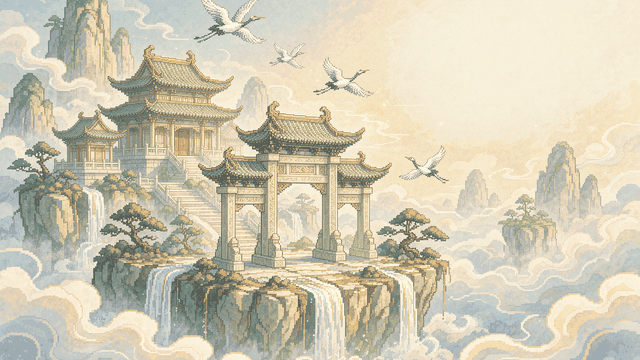
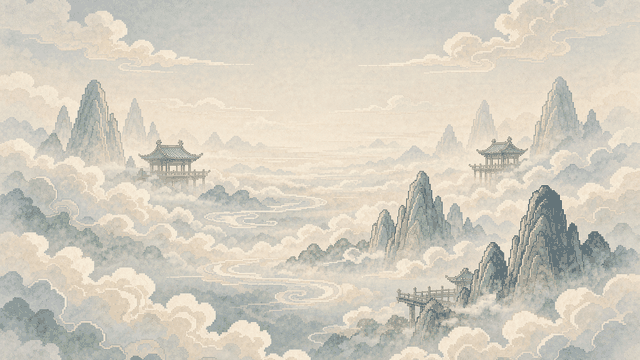
art: 删鸟去鹤+大黑山重画——v3背景3张替换
- bg_mijing_xian：去除近景突兀仙鹤，改云上仙阙残迹+仙碑剑痕+大片云海留白
- bg_mijing_xuan：大黑山完全重画——阴森密林山谷、非对称构图（巨石一侧/黑松林一侧）、狼群潜行、树枝垂蛇尾、乌鸦栖枝、散落兽骨、深冷压迫色调
- bg_title_yunhai：去除4只近景仙鹤，改远处云海仙宫，留白空旷

新增原则（写入计划）：
- 修仙类（洞府/修炼/百艺/锻体/渡劫/标题）突出空明意蕴放松
- 秘境类适当压迫感（玄/天偏深冷）
- 鸟/鹤专项约束：禁止近景，只许远山细影；仙秘境可远山鹤影

SW 缓存 v59→v60；48/48 测试通过；发布包 4.9MB

diff --git a/sw.js b/sw.js
@@ -1,4 +1,4 @@
-const CACHE = 'dedao-v59';
+const CACHE = 'dedao-v60';
 const ASSETS = [
   './',
   './index.html',

diff --git a/test/reports/test-report-2026-09-06-08-54.md b/test/reports/test-report-2026-09-06-08-54.md
@@ -1,0 +1,67 @@
+# DEDAO 全量测试报告
+
+- 目标目录：`D:\opencode\DEDAO`
+- 运行时间：2026/9/6 16:54:47
+- 结果：**48/48 通过**
+
+## 汇总
+
+| 测试套件 | 用例数 | 通过 | 失败 |
+|---|---:|---:|---:|
+| 01 静态一致性 & 数据完整性 | 16 | 16 | 0 |
+| 02 引擎单元测试 & 长时模拟 | 22 | 22 | 0 |
+| 03 UI / DOM 层（jsdom） | 10 | 10 | 0 |
+| **合计** | **48** | **48** | **0** |
+
+## 明细
+
+| 结果 | 套件 | 用例 | 说明 |
+|:--:|---|---|---|
+| ✅ | 01 静态一致性 & 数据完整性 | 全部 JS 源文件语法可解析 |  |
+| ✅ | 01 静态一致性 & 数据完整性 | 源文件无编码损坏（U+FFFD 替换字符） |  |
+| ✅ | 01 静态一致性 & 数据完整性 | ui.js 引用的元素 ID 均存在于 index.html（非守护式引用） | ℹ 检查了 126 个 ID 引用 / HTML 定义 151 个 |
+| ✅ | 01 静态一致性 & 数据完整性 | index.html 定义的元素 ID 均被使用（无死元素） | ℹ 未被引用的 ID 24 个: screen-title, screen-enter, enter-rebirth-section, screen-char, char-body, tab-attr, tab-equip, tab-treasure, tab-tech, screen-rebirth, screen-bag, screen-gear |
+| ✅ | 01 静态一致性 & 数据完整性 | HTML 中引用的资源文件均存在 | ℹ 校验 6 个资源引用 |
+| ✅ | 01 静态一致性 & 数据完整性 | 未使用 alert / confirm / prompt（小游戏宿主会阻塞，移植风险） |  |
+| ✅ | 01 静态一致性 & 数据完整性 | 未硬编码 Windows 绝对路径 |  |
+| ✅ | 01 静态一致性 & 数据完整性 | Service Worker 缓存版本已声明 | ℹ 当前缓存版本: dedao-v60 |
+| ✅ | 01 静态一致性 & 数据完整性 | 境界体系 STAGES 完整且修为需求递增 | ℹ 需求曲线: 500 → 800 → 1200 → 1200 → 1600 → 2100 → 3800 → 4800 → 6200 → 12000 → 15000 → 19000 |
+| ✅ | 01 静态一致性 & 数据完整性 | 功法 TECHNIQUES 字段合法 | ℹ 功法 81 个，心法 37 / 术法 29 / 遁术 15 |
+| ✅ | 01 静态一致性 & 数据完整性 | 天赋 TALENTS 唯一且有 tier | ℹ 天赋 28 个，档位分布: {"white":6,"green":6,"blue":6,"purple":5,"gold":5} |
+| ✅ | 01 静态一致性 & 数据完整性 | 炼制配方 FORMULAS 产物与材料引用有效 | ℹ 配方 10 条 |
+| ✅ | 01 静态一致性 & 数据完整性 | 事件库 EVENTS 结构合法 | ℹ 事件分类: jiyuan=34 / shejiao=35 / mijing=19 / year=4，合计 92 |
+| ✅ | 01 静态一致性 & 数据完整性 | 宗门数据 SECTS 与各事件表键一致 | ℹ 宗门 3 个: 青云剑宗、丹霞谷、玄天门 |
+| ✅ | 01 静态一致性 & 数据完整性 | 灵根/彩蛋/背景池数据合法 | ℹ 灵根 11 / 彩蛋 7 / 背景 3 |
+| ✅ | 01 静态一致性 & 数据完整性 | 装备 ARTIFACTS 槽位与品阶合法 | ℹ 装备 5 件，类型: 攻 / 守 / 辅<br>ℹ ⚠ 法宝仅 5 件，品类偏少，长期内容深度可能不足 |
+| ✅ | 02 引擎单元测试 & 长时模拟 | Engine 与核心接口可用 | ℹ Engine 暴露 105 个成员 |
+| ✅ | 02 引擎单元测试 & 长时模拟 | startLife 产出合法初始状态 |  |
+| ✅ | 02 引擎单元测试 & 长时模拟 | commitStart 完成开局且属性自洽 |  |
+| ✅ | 02 引擎单元测试 & 长时模拟 | actionPoints 随境界递增（3→6） | ℹ idx 0/3/6/9 → 3 / 4 / 5 / 6 点 |
+| ✅ | 02 引擎单元测试 & 长时模拟 | cultivate 增加修为并消耗行动点 |  |
+| ✅ | 02 引擎单元测试 & 长时模拟 | 修为未满时不可突破 | ℹ breakInfo: {} |
+| ✅ | 02 引擎单元测试 & 长时模拟 | 修为拉满后可突破且境界提升 | ℹ 成功推进至 idx=1（炼气），尝试 2 次 |
+| ✅ | 02 引擎单元测试 & 长时模拟 | 战斗可正常终止且数值不越界 | ℹ 战斗 73 回合结束，win=false lost=true |
+| ✅ | 02 引擎单元测试 & 长时模拟 | 装备获取 / 穿戴 / 属性计算 | ℹ 装备 越王勾践剑，攻击 30 → 60 |
+| ✅ | 02 引擎单元测试 & 长时模拟 | 存档写入 / 读取往返一致 |  |
+| ✅ | 02 引擎单元测试 & 长时模拟 | 空存档读取返回 null 而不崩溃 |  |
+| ✅ | 02 引擎单元测试 & 长时模拟 | 丹药使用扣除数量且生效 | ℹ 服用 聚气丹，寿元 70 → 70 |
+| ✅ | 02 引擎单元测试 & 长时模拟 | endYear 推进年份与年龄 |  |
+| ✅ | 02 引擎单元测试 & 长时模拟 | 100 局全流程随机模拟：无崩溃、无 NaN、不变量恒成立 | ℹ 共模拟 100 局 / 17580 年，死亡 32 局，最高年龄 216<br>ℹ 终局境界分布 idx0..11: 0,0,0,0,0,18,0,2,29,33,13,3,0,0,0,2 |
+| ✅ | 02 引擎单元测试 & 长时模拟 | 数值平衡抽样：境界推进与寿命分布合理 | ℹ 60 局：平均寿命 146.6 岁，平均境界序号 7.98，最高 15，最低 5 |
+| ✅ | 02 引擎单元测试 & 长时模拟 | doDuanti：未解锁拒绝，解锁后生效（+0.5 体魄） |  |
+| ✅ | 02 引擎单元测试 & 长时模拟 | doDuanti：行动点消耗（体魄1/遁速1/神识2） |  |
+| ✅ | 02 引擎单元测试 & 长时模拟 | doDuanti：每大境界每种至多10次，行动点不足拒绝 |  |
+| ✅ | 02 引擎单元测试 & 长时模拟 | doDuanti：突破大境界后次数重置 |  |
+| ✅ | 02 引擎单元测试 & 长时模拟 | 秘境灵材按秘境品级掉落（高境界刷黄级秘境得黄级灵草） |  |
+| ✅ | 02 引擎单元测试 & 长时模拟 | 坊市灵材按秘境品级出售且可正常购买 |  |
+| ✅ | 02 引擎单元测试 & 长时模拟 | 出售装备：同名只卖一件，已穿戴的不受影响 |  |
+| ✅ | 03 UI / DOM 层（jsdom） | 页面可加载且核心脚本无报错 | ℹ 加载期消息 0 条（已过滤无关项后 0 条） |
+| ✅ | 03 UI / DOM 层（jsdom） | 标题页可见且主按钮齐备 |  |
+| ✅ | 03 UI / DOM 层（jsdom） | 走通开局流程：开始轮回 → 起名 → 进入主界面 | ℹ 命格候选项 3 个<br>ℹ undefined<br>ℹ 角色名: 测试道人，HUD 气血: ? |
+| ✅ | 03 UI / DOM 层（jsdom） | 主界面行动按钮可点击且不抛错 | ℹ 已点击 7 个行动按钮 |
+| ✅ | 03 UI / DOM 层（jsdom） | 底部栏与功能弹窗可正常开关 | ℹ 已遍历 4 个底部入口 |
+| ✅ | 03 UI / DOM 层（jsdom） | 轮回塔页面可进入并渲染天赋列表 | ℹ 轮回塔条目数: 18 |
+| ✅ | 03 UI / DOM 层（jsdom） | 游戏状态可持久化到 localStorage | ℹ 存档键: dedao_meta, dedao_cfg, dedao_save |
+| ✅ | 03 UI / DOM 层（jsdom） | 自定义弹窗替代原生 confirm（WebView 不阻塞） |  |
+| ✅ | 03 UI / DOM 层（jsdom） | 锻体：未解锁时仅给引导，不进页面不耗行动点 |  |
+| ✅ | 03 UI / DOM 层（jsdom） | 锻体：解锁后进入页面，淬炼生效且计入次数 |  |

diff --git a/AI配图实施计划.md b/AI配图实施计划.md
@@ -23,16 +23,30 @@
 | 层级 | 名称 | 游戏文案 | 画面要素 | 文件命名 |
 |:---:|---|---|---|---|
 | 黄 | 匪徒营寨 | 炼气期秘境，匪徒盘踞之地 | 山腰木栅寨、帐篷两三顶、篝火锅灶、木箱兵器架、土路上行、远处青岭薄雾 | `bg_mijing_huang` |
-| 玄 | 大黑山 | 筑基期秘境，妖兽横行之地 | 黑松林、巨岩、兽骨与爪痕、林间雾气、远山月色（明亮不阴森） | `bg_mijing_xuan` |
+| 玄 | 大黑山 | 筑基期秘境，妖兽横行之地 | **阴森密林山谷**：非对称构图（巨石一侧、扭曲黑松林一侧）、黑雾低伏、狼群潜行、树枝垂蛇尾、乌鸦栖枝、地面散落兽骨；色调深冷（`#2a3540/#3a4a3a`），适当压迫感 | `bg_mijing_xuan` |
 | 地 | 洞天福地 | 金丹期秘境，上古洞天遗迹 | 石门洞天、玉阶平台、灵泉池塘、琪花瑶草、云气缭绕 | `bg_mijing_di` |
 | 天 | 魔道祖地 | 元婴期秘境，魔道势力盘踞之地 | 残破祭坛、黑石殿宇、血色符阵（克制用）、远处魔气山影 | `bg_mijing_tian` |
-| 仙 | 遗世仙踪 | 每十年一现的仙人遗迹，内藏仙品宝物 | 云上仙阙残迹、仙碑剑痕、鹤影流光、大片云海留白 | `bg_mijing_xian` |
+| 仙 | 遗世仙踪 | 每十年一现的仙人遗迹，内藏仙品宝物 | 云上仙阙残迹（断柱/石阶）、仙碑剑痕、大片云海留白；**鸟只允许作远山细影**，绝不近景突兀 | `bg_mijing_xian` |
+
+### 修仙 vs 秘境 的画面情绪分轨（v3 新增）
+
+| 类别 | 情绪基调 | 配色倾向 | 鸟/鹤处理 | 例 |
+|---|---|---|---|---|
+| 修仙（洞府/修炼/百艺/锻体/渡劫/标题） | **空明意蕴、放松** | 暖浅、留白多 | **禁止近景鸟**：若出鸟必须远山细影，不可在画面中部或前景 | 渡劫、洞府、百艺坊 |
+| 秘境（黄玄地天仙） | **秘境需要适当压迫感**：越高阶越压抑 | 玄天偏深冷；地仙偏亮但留白 | 仙秘境允许远山细鸟影（仙鹤是仙的象征，但必须远）；玄秘境乌鸦可作为密林点缀 | 大黑山乌鸦栖枝 |
 
 ### 三条硬性生成约束（踩过坑后补充）
 
 1. **依据文案**：秘境/场景必须对照 `js/data.js` 的 `ADVENTURE_CONFIG.desc` 与怪物类型作画，不凭印象发挥。
 2. **反密集**：禁止成排重复的瓶罐、密集孔洞/斑点（会引发密集恐惧）；同类道具最多 2-3 件，其余留白。
 3. **中式非日式**：禁用榻榻米、障子推拉纸门、日式暖帘、日式石灯笼；改用青砖地、中式雕花窗棂、供案、卷轴、竹帘。
+
+### 鸟/鹤/仙鹤元素专项约束（v3 新增，用户明确要求）
+
+- **禁止近景鸟**：鸟/鹤在画面中部或前景出现会"突兀且填补画面"，一律禁止。
+- **允许远山细影**：若场景需要活物氛围，可在远山位置留 1-2 个细小鸟影（占画面 ≤ 2% 面积）。
+- **仙秘境例外**：仙级秘境若需鸟，只作"远山鹤影流光"，不可近景飞翔。
+- **玄秘境乌鸦**：大黑山等密林压抑场景，乌鸦栖枝/远飞可作点缀，但同样不可成群近景喧宾夺主。
 
 **背景淡彩色板**（UI 面板仍为暗色，与背景形成对比）
 
@@ -44,6 +58,15 @@
 | 暖木 | `#c8a877` |
 | 点缀金 | `#e8c15a` |
 | 淡紫（高阶场景） | `#b9a8d0` |
+
+**秘境玄·大黑山深冷色板**（v3 补充，秘境需压迫感时使用）
+
+| 用途 | 色值 |
+|---|---|
+| 深石板 | `#2a3540` |
+| 苔藓暗绿 | `#3a4a3a` |
+| 阴影棕 | `#4a3a3a` |
+| 近黑 | `#1a1a1f` |
 
 ---
 
